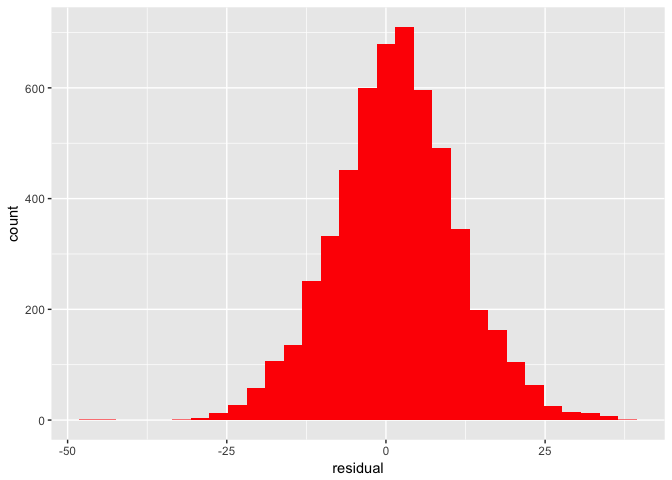
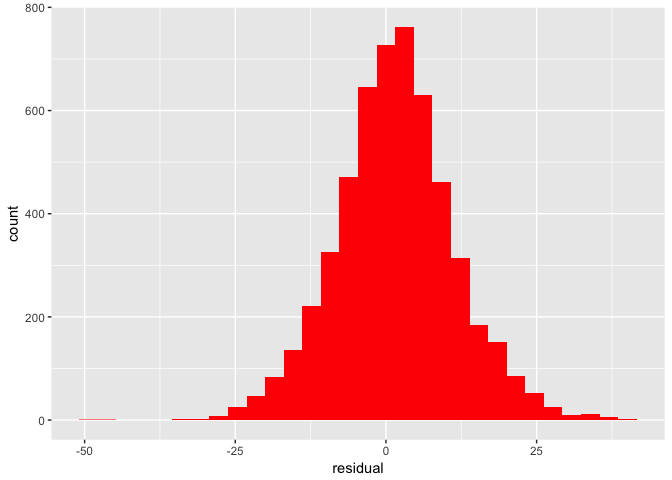
updated markdown syntax

diff --git a/Bayesian_March_Madness_Final.md b/Bayesian_March_Madness_Final.md
@@ -4,21 +4,25 @@ Austin Harcarik
 3/15/2017
 
 Introduction:
+=============
+
 Rather than filling out my bracket with my gut this year, I decided to make a model and see how it does. The goal of this study is to model the score difference of any game (team a - team b) using data from the 2016-2017 NCAA basketball season. The data used in this study is from a Kaggle competition. There are about 5400 games and 351 teams in the dataset. Because of my strange obsession with Andrew Gelman, I had to make a bayesian hierarchical model.
 
 Model:
+======
+
 This model has two main assumptions:
 - each team has some 'true talent level'
 - each team has some 'true home court advantage'
 
-The score differential in game *i*, denoted as *y*<sub>*i*</sub> is modeled as a normal distribution:
-*y*<sub>*i*</sub> *N*(*a*<sub>*h**o**m**e*</sub> − *a*<sub>*a**w**a**y*</sub> + *b*<sub>*h**o**m**e*</sub>, *σ*<sub>*y*</sub>)
+The score differential in game *i*, denoted as *y*<sub>*i*</sub> is modeled as a student-t distribution with 7 degrees of freedom to allow for outliers (per Andrew Gelman's recommendation):
+*y*<sub>*i*</sub> *t*<sub>7</sub>(*a*<sub>*h**o**m**e*</sub> − *a*<sub>*a**w**a**y*</sub> + *b*<sub>*h**o**m**e*</sub>, *σ*<sub>*y*</sub>)
 where *a*<sub>*h**o**m**e*</sub> and *a*<sub>*a**w**a**y*</sub> are the true talent levels of the home and away teams, respectively, and *b*<sub>*h**o**m**e*</sub> is the home court advantage for the home team. I assume a hierarchical structure for both the true talents and true home court advantages:
 *a*<sub>*h**o**m**e*</sub>, *a*<sub>*a**w**a**y*</sub> *N*(0, *τ*<sub>*a*</sub>)
-*τ*<sub>*a*</sub> *U**n**i**f*(0, 12)
+*τ*<sub>*a*</sub> *U**n**i**f*(0, 14)
 *b*<sub>*h**o**m**e*</sub> *N*(0, *τ*<sub>*b*</sub>)
-*τ*<sub>*b*</sub> *U**n**i**f*(0, 5)
-*σ*<sub>*y*</sub> *U**n**i**f*(0, 25)
+*τ*<sub>*b*</sub> *U**n**i**f*(0, 7)
+*σ*<sub>*y*</sub> *U**n**i**f*(0, 20)
 
 I tried to stick with noninformative priors, but I did limit the parameter space pretty significantly. I believe this to be justified since we have a pretty good idea of how basketball scores are distributed. Moreover, we expect the home court advantage distribution from which each team's home court advantage is drawn to be noticeably less variable than the true talent distribution.
 
@@ -127,16 +131,16 @@ write(x="
       }
       
       model {
-      tau_a ~ uniform(0,12);
-      tau_b ~ uniform(0,5);
-      sigma_y ~ uniform(0,25);
+      tau_a ~ uniform(0,14);
+      tau_b ~ uniform(0,7);
+      sigma_y ~ uniform(0,20);
       a ~ normal(0,tau_a);
       b ~ normal(0,tau_b);
       for (i in 1:ngames) {
       if (is_home[i] == 1) {
-      score_diff[i] ~ normal(a[team1[i]]-a[team2[i]] + b[team1[i]],sigma_y);
+      score_diff[i] ~ student_t(7,a[team1[i]]-a[team2[i]] + b[team1[i]],sigma_y);
       } else {
-      score_diff[i] ~ normal(a[team1[i]]-a[team2[i]],sigma_y);
+      score_diff[i] ~ student_t(7,a[team1[i]]-a[team2[i]],sigma_y);
       }
       } 
       } 
@@ -163,19 +167,19 @@ print(fit, digits=1)
     ## post-warmup draws per chain=1000, total post-warmup draws=4000.
     ## 
     ##             mean se_mean   sd     2.5%      25%      50%      75%    97.5%
-    ## tau_a        9.2     0.0  0.4      8.5      8.9      9.2      9.4     10.0
-    ## tau_b        4.1     0.0  0.3      3.6      3.9      4.1      4.3      4.7
-    ## sigma_y     10.4     0.0  0.1     10.2     10.4     10.4     10.5     10.6
-    ## a[1]        -8.4     0.0  2.5    -13.1    -10.1     -8.4     -6.8     -3.6
-    ## a[2]        -4.2     0.0  2.4     -8.8     -5.8     -4.2     -2.7      0.4
-    ## a[3]         4.6     0.0  2.2      0.2      3.0      4.6      6.0      9.0
-    ## a[4]        10.0     0.0  2.3      5.6      8.4     10.0     11.5     14.5
-    ## a[5]       -23.0     0.0  2.3    -27.4    -24.5    -23.0    -21.4    -18.5
-    ## a[6]       -15.5     0.0  2.2    -19.9    -17.0    -15.6    -14.1    -11.1
-    ## a[7]         2.1     0.0  2.3     -2.3      0.6      2.1      3.5      6.5
+    ## tau_a        9.1     0.0  0.4      8.3      8.8      9.1      9.3      9.9
+    ## tau_b        4.1     0.0  0.3      3.6      3.9      4.1      4.3      4.6
+    ## sigma_y      9.1     0.0  0.1      8.8      9.0      9.1      9.1      9.3
+    ## a[1]        -8.0     0.0  2.5    -12.8     -9.6     -8.0     -6.3     -3.1
+    ## a[2]        -4.2     0.0  2.4     -8.8     -5.8     -4.2     -2.6      0.7
+    ## a[3]         4.8     0.0  2.2      0.5      3.3      4.8      6.2      9.1
+    ## a[4]        10.0     0.0  2.3      5.7      8.5     10.0     11.6     14.6
+    ## a[5]       -22.3     0.0  2.3    -26.9    -23.8    -22.3    -20.7    -17.7
+    ## a[6]       -16.0     0.0  2.1    -20.1    -17.4    -16.0    -14.7    -11.8
+    ## a[7]         1.9     0.0  2.2     -2.5      0.5      1.9      3.3      6.2
     ##         n_eff Rhat
     ## tau_a    4000    1
-    ## tau_b    2347    1
+    ## tau_b    2343    1
     ## sigma_y  4000    1
     ## a[1]     4000    1
     ## a[2]     4000    1
@@ -186,7 +190,7 @@ print(fit, digits=1)
     ## a[7]     4000    1
     ##  [ reached getOption("max.print") -- omitted 696 rows ]
     ## 
-    ## Samples were drawn using NUTS(diag_e) at Wed Mar 15 14:07:30 2017.
+    ## Samples were drawn using NUTS(diag_e) at Wed Mar 15 19:01:48 2017.
     ## For each parameter, n_eff is a crude measure of effective sample size,
     ## and Rhat is the potential scale reduction factor on split chains (at 
     ## convergence, Rhat=1).
@@ -213,16 +217,16 @@ head(final_results, 10)
 ```
 
     ##    Team_Id Team_Num True_Talent Home_Advantage      Team_Name
-    ## 1     1211      105    24.46644       1.666877        Gonzaga
-    ## 2     1437      326    22.28443       1.321377      Villanova
-    ## 3     1452      339    20.75434       4.793773  West Virginia
-    ## 4     1246      139    20.70029       3.501759       Kentucky
-    ## 5     1196       90    20.28025       1.793546        Florida
-    ## 6     1257      150    19.90993       3.545274     Louisville
-    ## 7     1314      205    19.82684       7.187764 North Carolina
-    ## 8     1181       75    19.48854       2.360880           Duke
-    ## 9     1242      135    19.08098       3.701443         Kansas
-    ## 10    1438      327    18.80610       3.617273       Virginia
+    ## 1     1211      105    23.92243       2.588192        Gonzaga
+    ## 2     1437      326    21.86853       1.780859      Villanova
+    ## 3     1246      139    20.05714       3.712186       Kentucky
+    ## 4     1196       90    19.79564       1.426618        Florida
+    ## 5     1452      339    19.77969       4.911934  West Virginia
+    ## 6     1438      327    19.02029       3.490241       Virginia
+    ## 7     1181       75    18.98760       1.871375           Duke
+    ## 8     1314      205    18.89915       7.449634 North Carolina
+    ## 9     1242      135    18.80910       3.545610         Kansas
+    ## 10    1257      150    18.22033       4.876177     Louisville
 
 ``` r
 # who has the best home court advantage?
@@ -232,16 +236,16 @@ head(final_results, 10)
 ```
 
     ##    Team_Id Team_Num True_Talent Home_Advantage       Team_Name
-    ## 1     1199       93  14.4023529       9.309961      Florida St
-    ## 2     1393      283   8.0559484       9.278913        Syracuse
-    ## 3     1427      317  -8.1434014       7.941696  UT San Antonio
-    ## 4     1456      343  -0.9620475       7.333401  William & Mary
-    ## 5     1314      205  19.8268369       7.187764  North Carolina
-    ## 6     1411      301  -4.1183685       6.380223     TX Southern
-    ## 7     1332      222  16.3128723       6.338411          Oregon
-    ## 8     1249      142  -6.2881963       6.313845           Lamar
-    ## 9     1433      322   8.7009537       6.312914 VA Commonwealth
-    ## 10    1455      342  17.8906752       6.275828      Wichita St
+    ## 1     1393      283    7.941484      10.461703        Syracuse
+    ## 2     1199       93   14.552697       8.264464      Florida St
+    ## 3     1427      317   -8.386025       7.934709  UT San Antonio
+    ## 4     1456      343   -1.116030       7.767891  William & Mary
+    ## 5     1314      205   18.899146       7.449634  North Carolina
+    ## 6     1249      142   -5.961792       6.417195           Lamar
+    ## 7     1288      181  -13.638479       6.348573       Morgan St
+    ## 8     1433      322    8.578758       6.248512 VA Commonwealth
+    ## 9     1411      301   -3.826920       6.174610     TX Southern
+    ## 10    1153       47   14.641938       6.131684      Cincinnati
 
 ``` r
 # function to make probabilistic predictions
@@ -258,19 +262,19 @@ predict_matchup <- function(high_seed_team, low_seed_team) {
 predict_matchup("Duke", "Troy")
 ```
 
-    ## probability that Duke beats Troy : 0.9534961
+    ## probability that Duke beats Troy : 0.9697481
 
 ``` r
 predict_matchup("Arkansas", "Seton Hall")
 ```
 
-    ## probability that Arkansas beats Seton Hall : 0.5442438
+    ## probability that Arkansas beats Seton Hall : 0.5451734
 
 ``` r
 predict_matchup("Notre Dame", "Princeton")
 ```
 
-    ## probability that Notre Dame beats Princeton : 0.7904643
+    ## probability that Notre Dame beats Princeton : 0.8174829
 
 Vallidation:
 I will now make predictions on this season's data and look at the residuals.
@@ -300,22 +304,21 @@ p1 <- ggplot(mydata, aes(residual))
 p1 + geom_histogram(bandwidth=5, fill='red')
 ```
 
-    ## Warning: Ignoring unknown parameters: bandwidth
-
-    ## `stat_bin()` using `bins = 30`. Pick better value with `binwidth`.
-
-![](Bayesian_March_Madness_files/figure-markdown_github/validation-1.png)
+![](Bayesian_March_Madness_Final_files/figure-markdown_github/validation-1.png)
 
 ``` r
 p2 <- ggplot(mydata, aes(preds, residual))
 p2 + geom_point() + geom_abline(slope=0, intercept=0, color='red')
 ```
 
-![](Bayesian_March_Madness_files/figure-markdown_github/validation-2.png)
+![](Bayesian_March_Madness_Final_files/figure-markdown_github/validation-2.png)
 
 ``` r
 rmse <- sqrt(mean(mydata$residual^2))
 cat('Root Mean Squared Error:', rmse)
 ```
 
-    ## Root Mean Squared Error: 9.91047
+    ## Root Mean Squared Error: 9.948494
+    
+![Residuals](/validation-1.png)
+![Residual_Plot](/validation-2.png)
